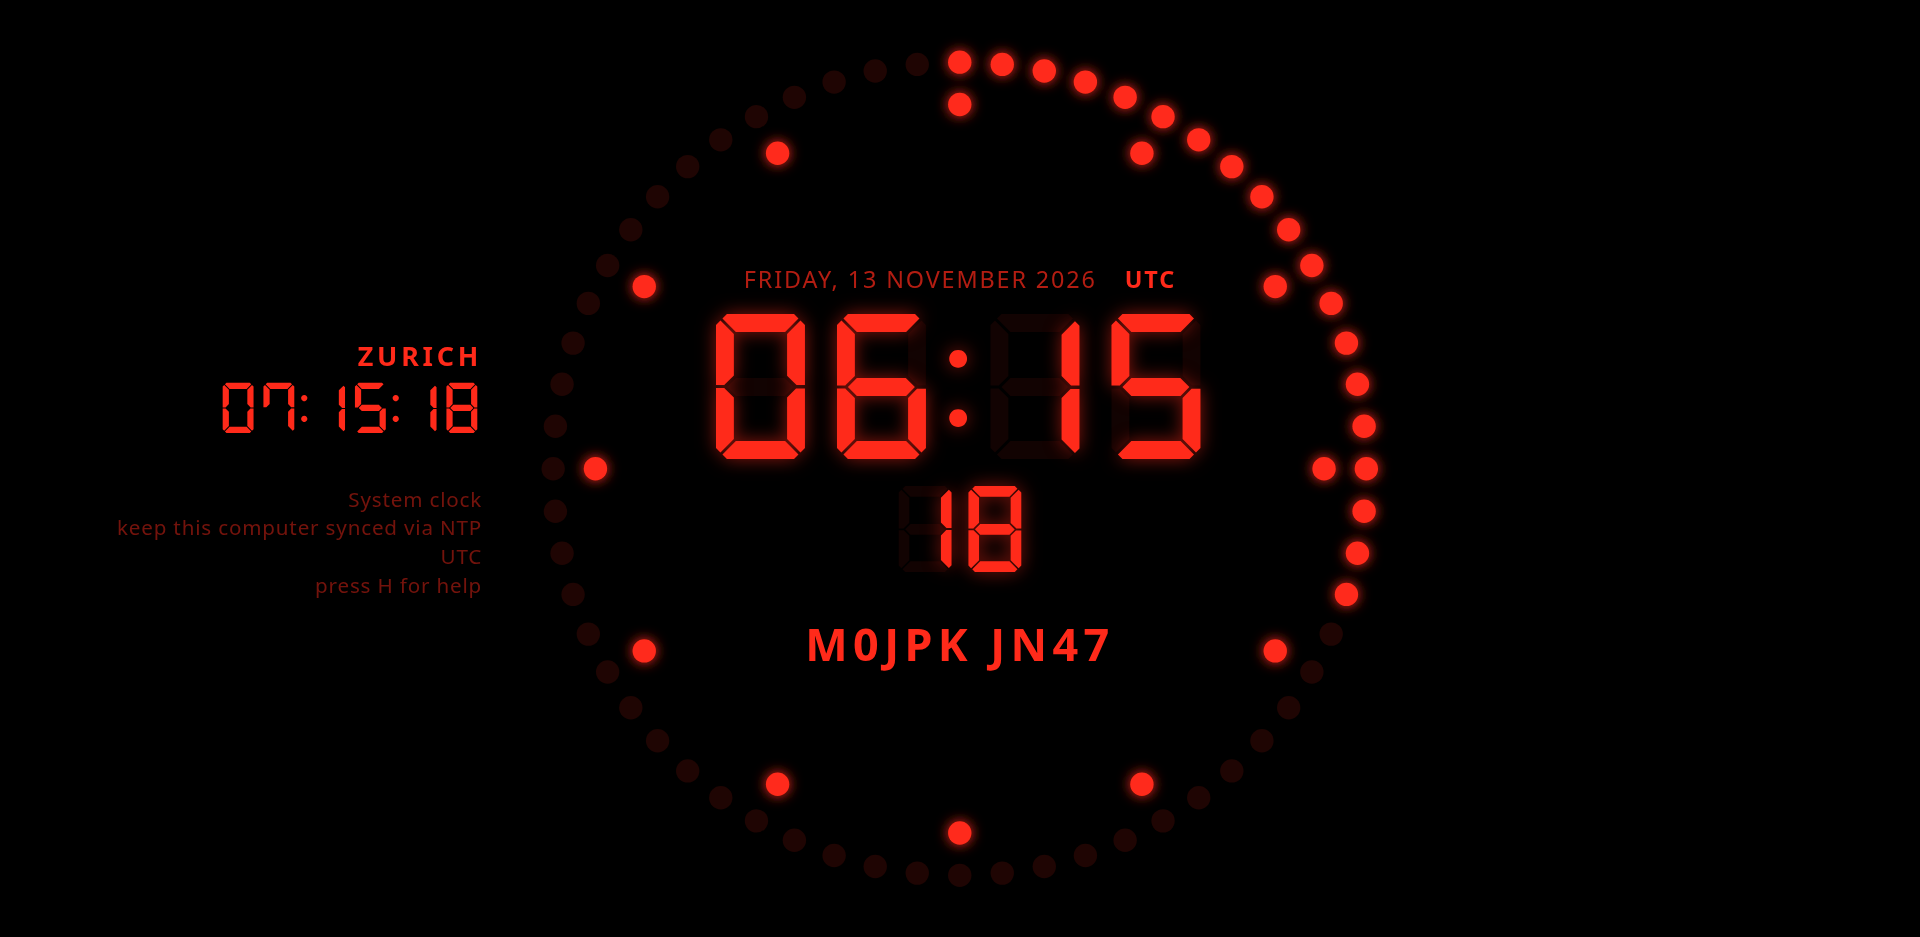
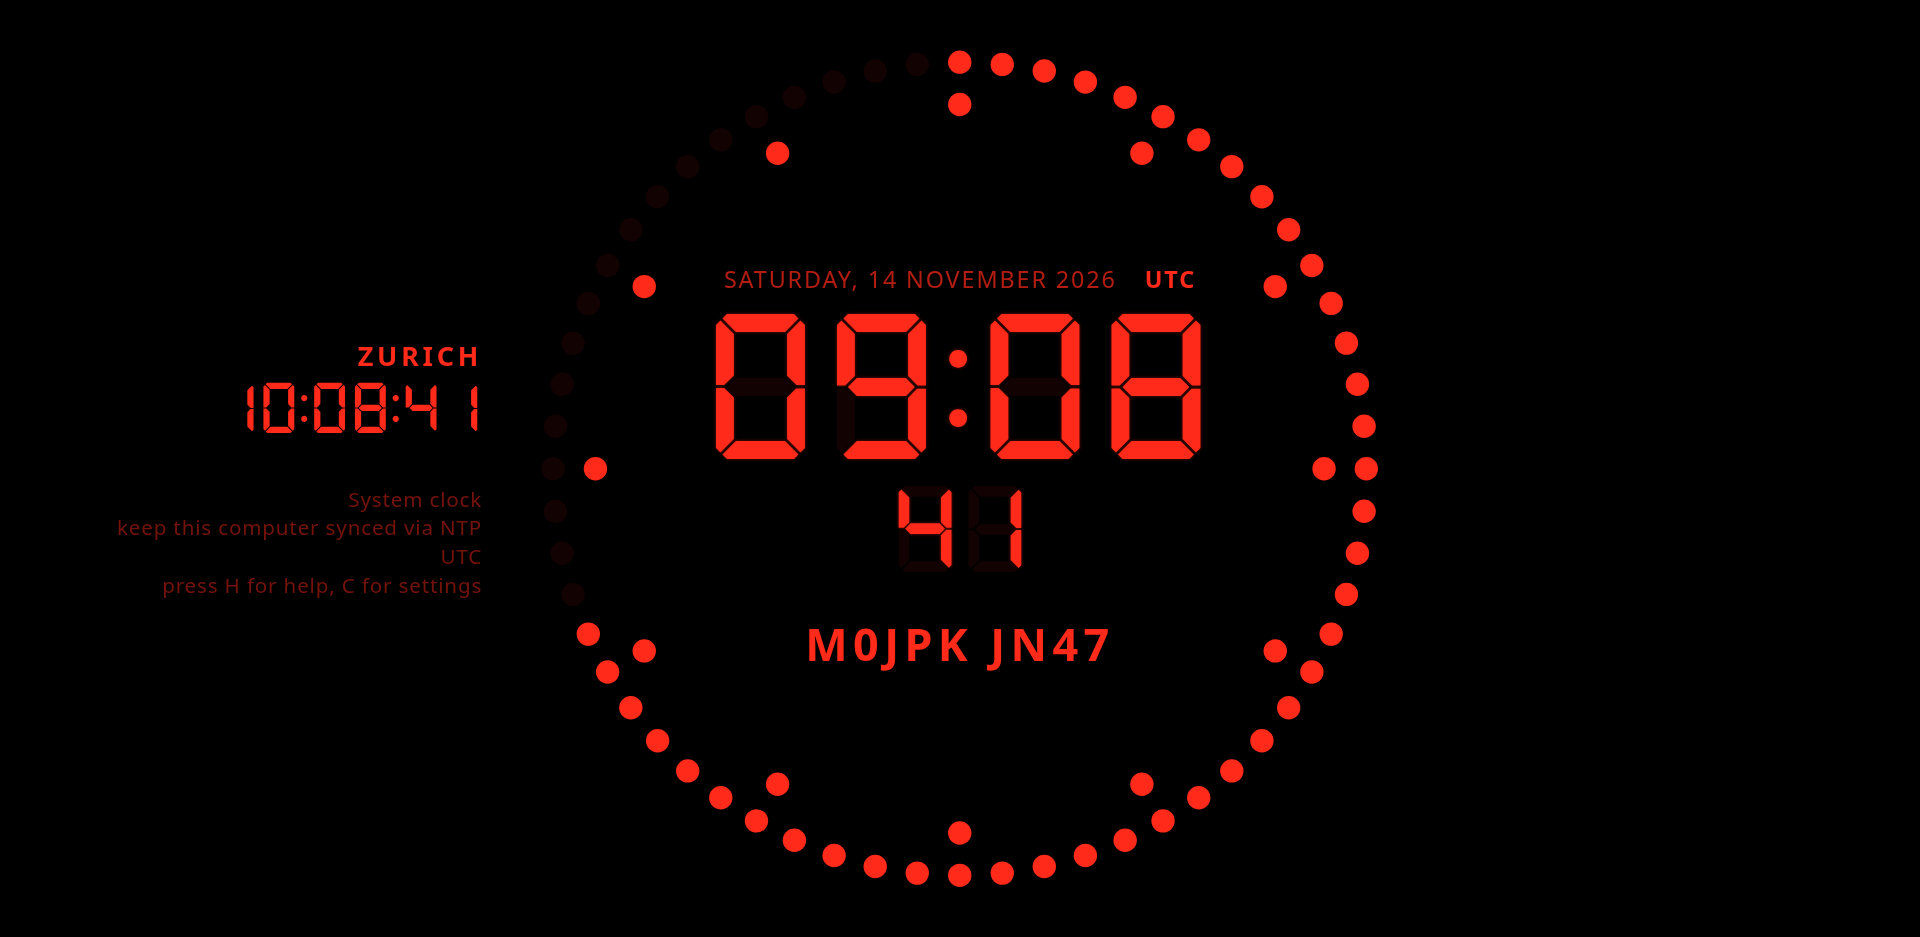
Crisp LEDs without glow, studio demo shows only the ON AIR sign
- remove the Gaussian blur on the ring dots and the wide text shadow on the
  digits, keep a faint tight edge; ON AIR box shadow toned down
- all README screenshots re-rendered
- separate demo links for the ON AIR sign and the countdown

diff --git a/master-clock.html b/master-clock.html
@@ -41,7 +41,7 @@
   .ring { position: absolute; inset: 0; width: 100%; height: 100%; }
   body.fade .ring .sec, body.fade .ring .hour, body.fade .center, body.fade .side, body.fade .zones, body.fade .readout .d { transition: fill 2s, color 2s; }
   .ring .sec { fill: rgba(var(--led-rgb), .07); }
-  .ring .sec.on, .ring .hour { fill: rgb(var(--led-rgb)); filter: url(#glow); }
+  .ring .sec.on, .ring .hour { fill: rgb(var(--led-rgb)); }
 
   .center {
     position: absolute; inset: 0;
@@ -57,7 +57,7 @@
   .date .zone { flex: none; color: rgb(var(--led-rgb)); font-weight: 600; }
   .digits { position: relative; display: inline-block; line-height: 1; font-family: "DSEG7", monospace; font-weight: bold; }
   .digits .ghost { position: absolute; left: 0; top: 0; color: rgba(var(--led-rgb), .07); }
-  .digits .lit { position: relative; text-shadow: 0 0 2cqmin rgba(var(--led-rgb), .55); }
+  .digits .lit { position: relative; text-shadow: 0 0 .4cqmin rgba(var(--led-rgb), .4); }
   .time { font-size: 16cqmin; letter-spacing: .4cqmin; }
   .secrow { position: relative; margin-top: 3cqmin; }
   .secs { font-size: 9.5cqmin; }
@@ -88,7 +88,7 @@
     border: .1em solid rgba(255, 30, 30, .22); color: rgba(255, 30, 30, .22);
   }
   .onair.show { display: block; }
-  .onair.live { background: var(--onair); border-color: var(--onair); color: #000; box-shadow: 0 0 1.2em rgba(255, 30, 30, .6); }
+  .onair.live { background: var(--onair); border-color: var(--onair); color: #000; box-shadow: 0 0 .4em rgba(255, 30, 30, .4); }
 
   .zones { display: flex; flex-direction: column; gap: 2vmin; align-items: inherit; }
   .zones.strip {
@@ -163,12 +163,6 @@
 
   <main class="clock" id="clock">
     <svg class="ring" viewBox="0 0 1000 1000" aria-hidden="true">
-      <defs>
-        <filter id="glow" x="-150%" y="-150%" width="400%" height="400%">
-          <feGaussianBlur stdDeviation="7" result="b"/>
-          <feMerge><feMergeNode in="b"/><feMergeNode in="SourceGraphic"/></feMerge>
-        </filter>
-      </defs>
       <g id="secDots"></g>
       <g id="hourDots"></g>
     </svg>

diff --git a/README.md b/README.md
@@ -26,7 +26,8 @@ change the parameters in the address bar.
 | Demo | Link |
 | --- | --- |
 | Default, UTC beside the dial | [open](https://aganet.github.io/studio-master-clock/master-clock.html) |
-| Studio with ON AIR sign and a 5 minute countdown | [open](https://aganet.github.io/studio-master-clock/master-clock.html?text=STUDIO%201&onair&countdown=300) |
+| Studio with the ON AIR sign | [open](https://aganet.github.io/studio-master-clock/master-clock.html?text=STUDIO%201&onair) |
+| Studio with a 5 minute countdown | [open](https://aganet.github.io/studio-master-clock/master-clock.html?text=STUDIO%201&countdown=300) |
 | Ham radio: UTC on the dial, call sign and grid | [open](https://aganet.github.io/studio-master-clock/master-clock.html?utc&text=M0JPK%20JN47) |
 | Newsroom world clock, six zones | [open](https://aganet.github.io/studio-master-clock/master-clock.html?text=NEWSROOM&zones=UTC,America/Los_Angeles:LA,America/New_York:NYC,Europe/London,Asia/Dubai,Asia/Tokyo) |
 | Four zones, no seconds in the strip | [open](https://aganet.github.io/studio-master-clock/master-clock.html?zones=UTC,America/New_York,Asia/Tokyo,Australia/Sydney&zoneseconds=0) |
@@ -54,10 +55,10 @@ master-clock.html
 
 ![Default view](docs/default.png)
 
-Studio: label, ON AIR sign lit and a countdown running, switched by remote control or the O and T keys.
+Studio: label and the ON AIR sign lit, switched by remote control or the O key.
 
 ```
-master-clock.html?text=STUDIO%201&onair&countdown=300
+master-clock.html?text=STUDIO%201&onair
 ```
 
 ![Studio view](docs/studio.png)
